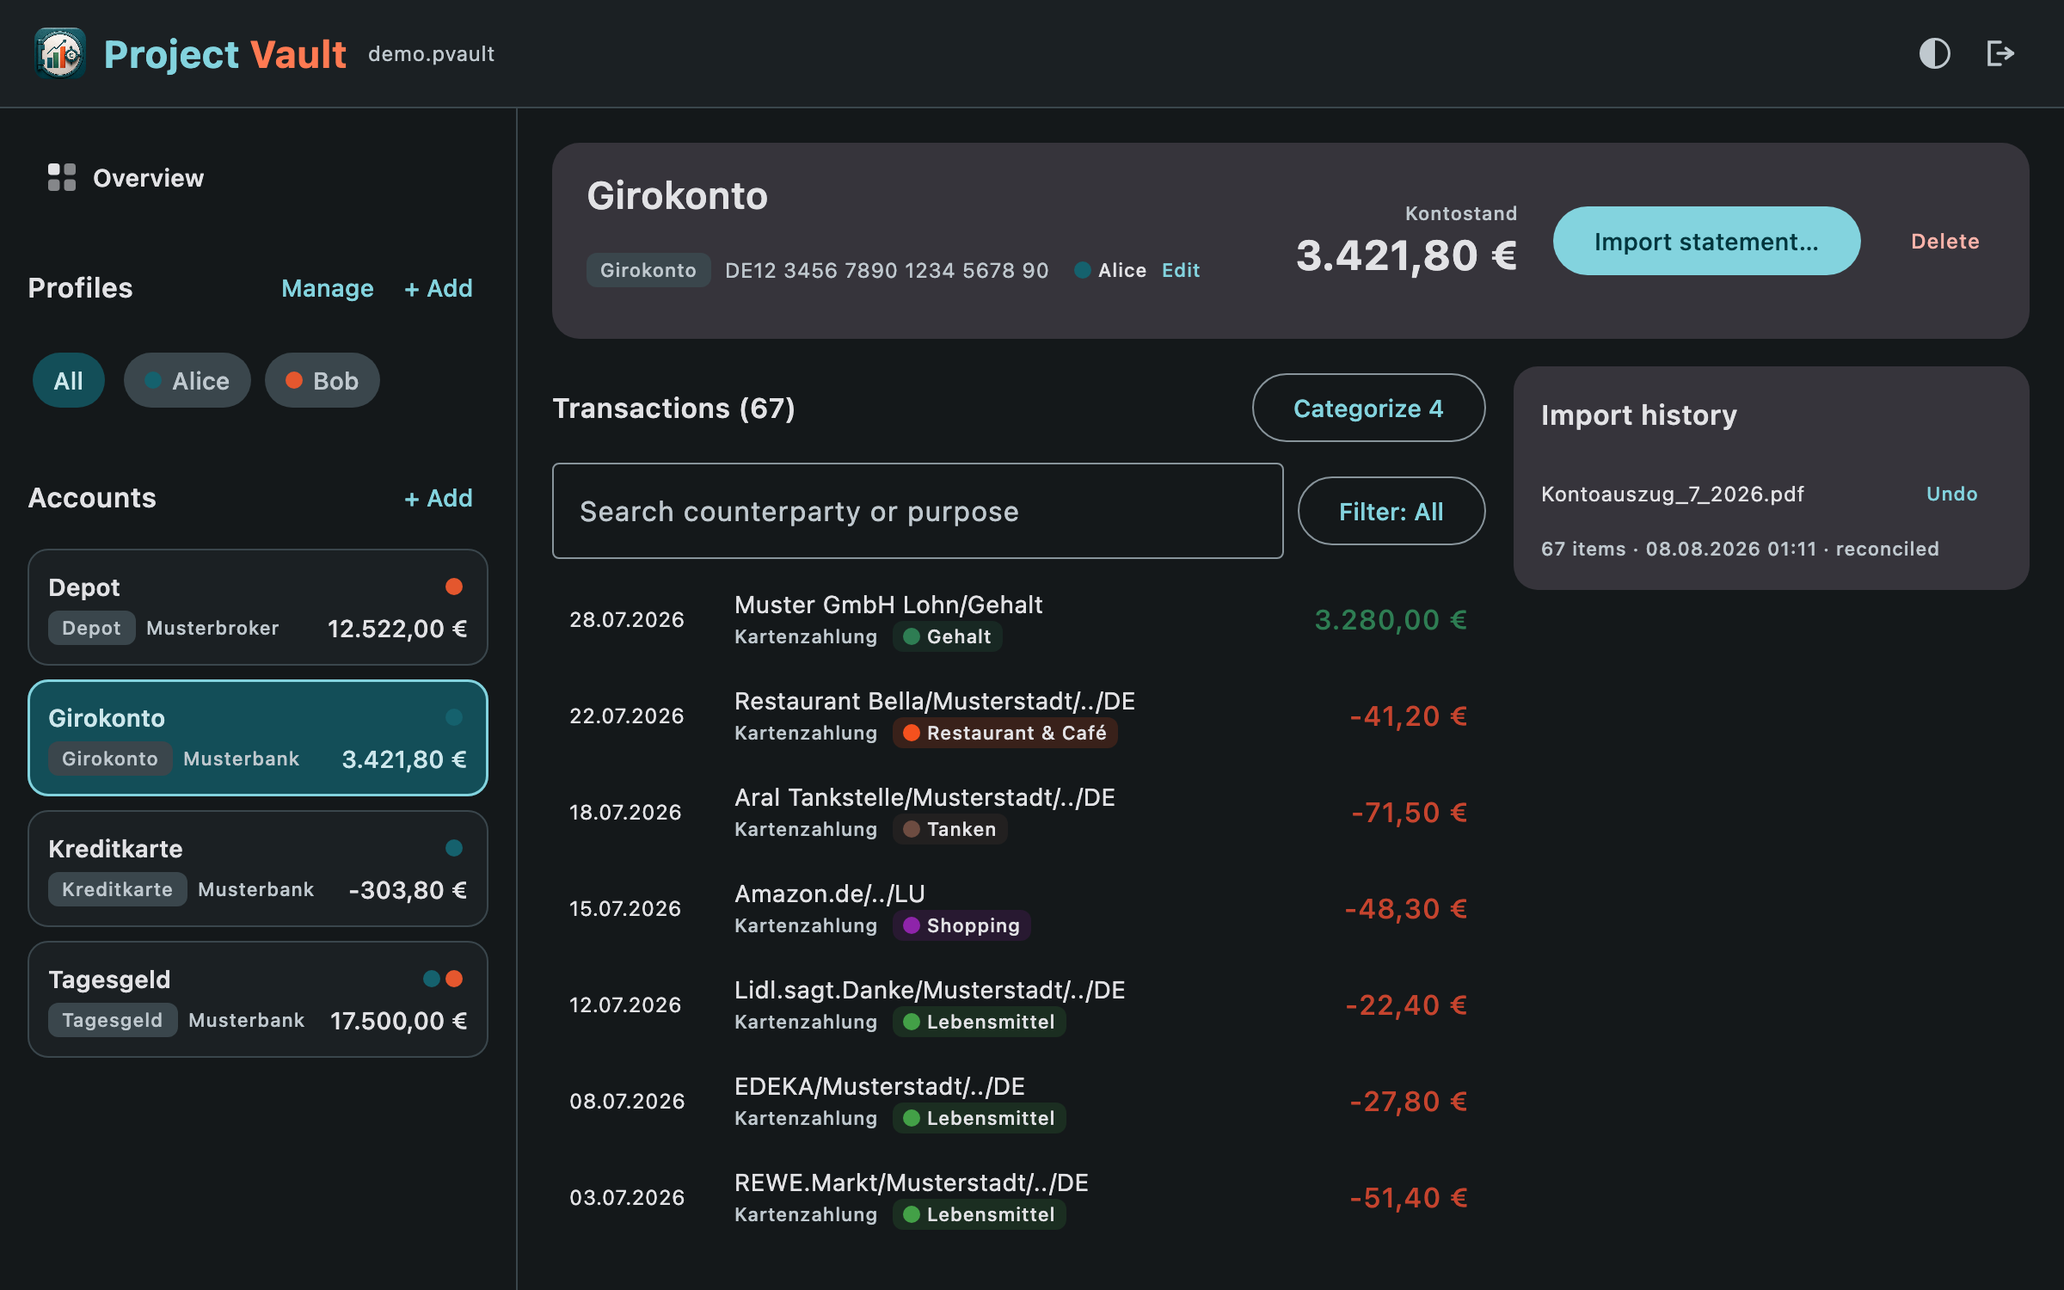
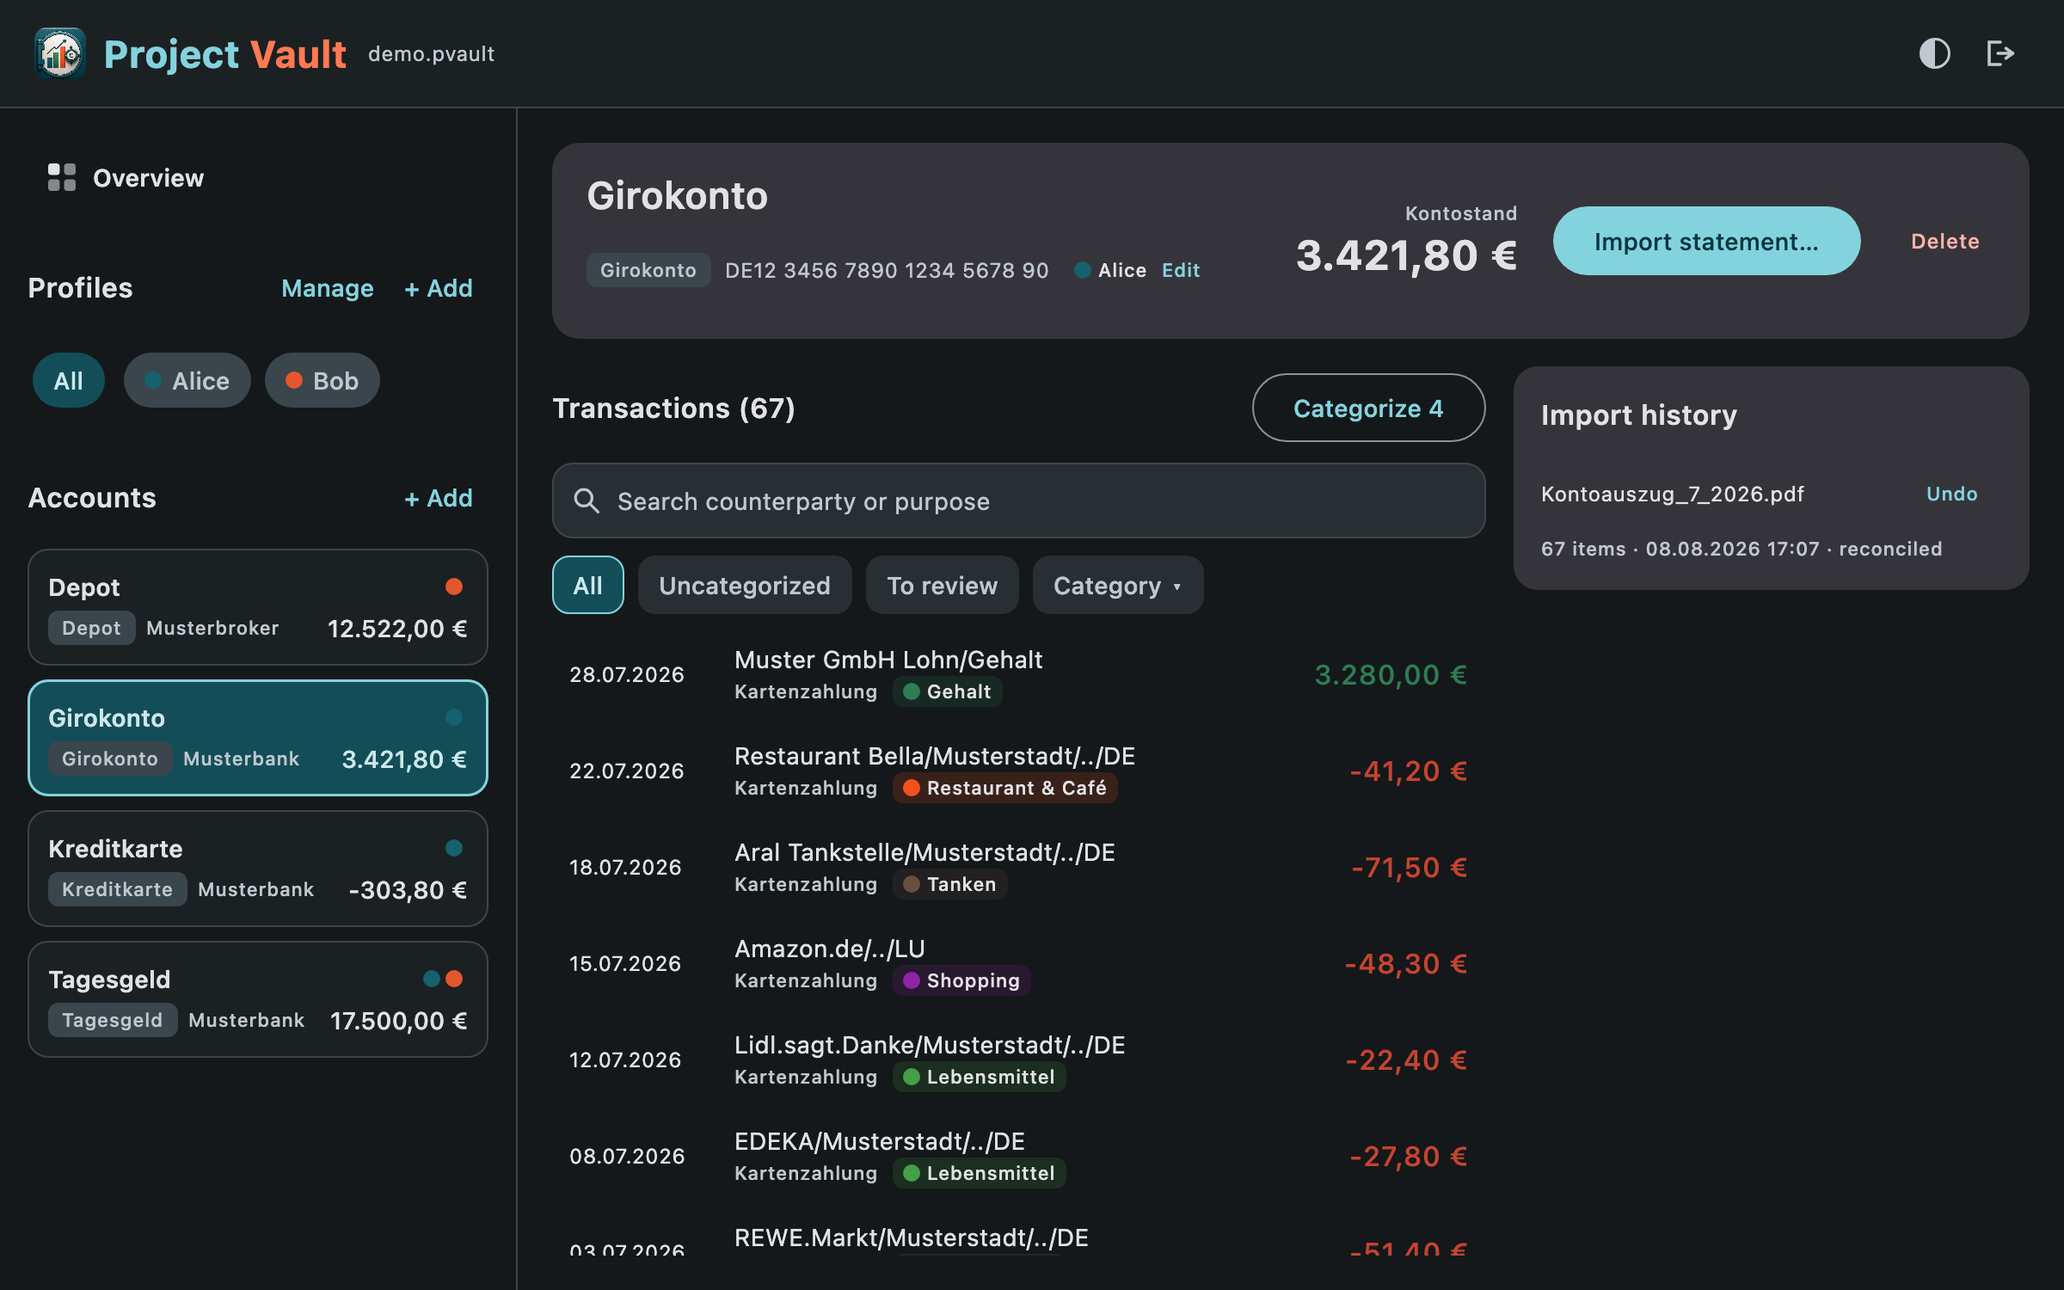
Enhance search and filters.

diff --git a/app/src/main/kotlin/org/fuchss/projectvault/app/AccountDetail.kt b/app/src/main/kotlin/org/fuchss/projectvault/app/AccountDetail.kt
@@ -1,6 +1,7 @@
 package org.fuchss.projectvault.app
 
 import androidx.compose.foundation.BorderStroke
+import androidx.compose.foundation.Canvas
 import androidx.compose.foundation.background
 import androidx.compose.foundation.clickable
 import androidx.compose.foundation.layout.Arrangement
@@ -14,18 +15,19 @@ import androidx.compose.foundation.layout.fillMaxSize
 import androidx.compose.foundation.layout.fillMaxWidth
 import androidx.compose.foundation.layout.height
 import androidx.compose.foundation.layout.padding
+import androidx.compose.foundation.layout.size
 import androidx.compose.foundation.layout.width
 import androidx.compose.foundation.lazy.LazyColumn
 import androidx.compose.foundation.lazy.items
+import androidx.compose.foundation.shape.CircleShape
 import androidx.compose.foundation.shape.RoundedCornerShape
+import androidx.compose.foundation.text.BasicTextField
 import androidx.compose.material3.Button
 import androidx.compose.material3.Card
-import androidx.compose.material3.DropdownMenu
 import androidx.compose.material3.DropdownMenuItem
 import androidx.compose.material3.HorizontalDivider
 import androidx.compose.material3.MaterialTheme
 import androidx.compose.material3.OutlinedButton
-import androidx.compose.material3.OutlinedTextField
 import androidx.compose.material3.Surface
 import androidx.compose.material3.Text
 import androidx.compose.material3.TextButton
@@ -36,7 +38,12 @@ import androidx.compose.runtime.remember
 import androidx.compose.runtime.setValue
 import androidx.compose.ui.Alignment
 import androidx.compose.ui.Modifier
+import androidx.compose.ui.draw.clip
+import androidx.compose.ui.geometry.Offset
 import androidx.compose.ui.graphics.Color
+import androidx.compose.ui.graphics.SolidColor
+import androidx.compose.ui.graphics.StrokeCap
+import androidx.compose.ui.graphics.drawscope.Stroke
 import androidx.compose.ui.text.font.FontWeight
 import androidx.compose.ui.text.style.TextOverflow
 import androidx.compose.ui.unit.dp
@@ -139,7 +146,9 @@ internal fun AccountDetail(
                         (search.isBlank() || (t.counterparty ?: "").contains(search, true) || t.purpose.contains(search, true)) &&
                             when (filter) {
                                 "ALL" -> true
-                                "NONE" -> t.categoryId == null
+                                // Uncategorized and To-review are disjoint: a txn with a pending
+                                // suggestion belongs to "To review", not "Uncategorized".
+                                "NONE" -> t.categoryId == null && t.suggestedCategoryId == null
                                 "REVIEW" -> t.categoryId == null && t.suggestedCategoryId != null
                                 else -> t.categoryId == filter
                             }
@@ -258,38 +267,117 @@ private fun TransactionFilters(
     categories: List<Category>,
     categoryById: Map<String, Category>,
 ) {
-    Row(verticalAlignment = Alignment.CenterVertically, horizontalArrangement = Arrangement.spacedBy(8.dp)) {
-        OutlinedTextField(
-            value = search,
-            onValueChange = onSearch,
-            placeholder = { Text("Search counterparty or purpose") },
-            singleLine = true,
-            modifier = Modifier.weight(1f),
-        )
-        var menu by remember { mutableStateOf(false) }
-        Box {
-            OutlinedButton(onClick = { menu = true }) { Text("Filter: ${filterLabel(filter, categoryById)}") }
-            DropdownMenu(expanded = menu, onDismissRequest = { menu = false }) {
-                DropdownMenuItem(text = { Text("All") }, onClick = { onFilter("ALL"); menu = false })
-                DropdownMenuItem(text = { Text("Uncategorized") }, onClick = { onFilter("NONE"); menu = false })
-                DropdownMenuItem(text = { Text("To review (suggested)") }, onClick = { onFilter("REVIEW"); menu = false })
-                HorizontalDivider()
-                categories.forEach { c ->
-                    DropdownMenuItem(
-                        text = { Row(verticalAlignment = Alignment.CenterVertically) { Dot(parseHexColor(c.color)); Spacer(Modifier.width(6.dp)); Text(c.name) } },
-                        onClick = { onFilter(c.id); menu = false },
-                    )
+    Column(verticalArrangement = Arrangement.spacedBy(10.dp)) {
+        SearchField(value = search, onValueChange = onSearch, modifier = Modifier.fillMaxWidth())
+        Row(horizontalArrangement = Arrangement.spacedBy(8.dp), verticalAlignment = Alignment.CenterVertically) {
+            FilterPill("All", selected = filter == "ALL") { onFilter("ALL") }
+            FilterPill("Uncategorized", selected = filter == "NONE") { onFilter("NONE") }
+            FilterPill("To review", selected = filter == "REVIEW") { onFilter("REVIEW") }
+
+            // A specific category filter lives in a dropdown chip that shows the active category.
+            val activeCategory = categoryById[filter]
+            var menu by remember { mutableStateOf(false) }
+            Box {
+                FilterPill(
+                    label = activeCategory?.name ?: "Category",
+                    selected = activeCategory != null,
+                    leadingDot = activeCategory?.let { parseHexColor(it.color) },
+                    trailingArrow = true,
+                ) { menu = true }
+                RoundedDropdownMenu(expanded = menu, onDismissRequest = { menu = false }) {
+                    categories.forEach { c ->
+                        DropdownMenuItem(
+                            text = { Row(verticalAlignment = Alignment.CenterVertically) { Dot(parseHexColor(c.color)); Spacer(Modifier.width(6.dp)); Text(c.name) } },
+                            onClick = { onFilter(c.id); menu = false },
+                        )
+                    }
                 }
             }
         }
     }
 }
 
-private fun filterLabel(filter: String, categoryById: Map<String, Category>): String = when (filter) {
-    "ALL" -> "All"
-    "NONE" -> "Uncategorized"
-    "REVIEW" -> "To review"
-    else -> categoryById[filter]?.name ?: "Category"
+/** A compact, pill-shaped search field with a drawn magnifier and an inline clear button. */
+@Composable
+private fun SearchField(value: String, onValueChange: (String) -> Unit, modifier: Modifier = Modifier) {
+    val muted = MaterialTheme.colorScheme.onSurfaceVariant
+    Surface(
+        shape = RoundedCornerShape(12.dp),
+        color = MaterialTheme.colorScheme.surfaceVariant.copy(alpha = 0.5f),
+        border = BorderStroke(1.dp, MaterialTheme.colorScheme.outlineVariant),
+        modifier = modifier,
+    ) {
+        Row(Modifier.padding(horizontal = 12.dp).height(44.dp), verticalAlignment = Alignment.CenterVertically) {
+            MagnifierIcon(muted)
+            Spacer(Modifier.width(10.dp))
+            Box(Modifier.weight(1f), contentAlignment = Alignment.CenterStart) {
+                if (value.isEmpty()) {
+                    Text("Search counterparty or purpose", style = MaterialTheme.typography.bodyMedium, color = muted)
+                }
+                BasicTextField(
+                    value = value,
+                    onValueChange = onValueChange,
+                    singleLine = true,
+                    textStyle = MaterialTheme.typography.bodyMedium.copy(color = MaterialTheme.colorScheme.onSurface),
+                    cursorBrush = SolidColor(MaterialTheme.colorScheme.primary),
+                    modifier = Modifier.fillMaxWidth(),
+                )
+            }
+            if (value.isNotEmpty()) {
+                Spacer(Modifier.width(8.dp))
+                Box(
+                    Modifier.size(22.dp).clip(CircleShape).clickable { onValueChange("") },
+                    contentAlignment = Alignment.Center,
+                ) { Text("✕", style = MaterialTheme.typography.labelMedium, color = muted) }
+            }
+        }
+    }
+}
+
+/** A magnifier glass drawn with primitives (no icon dependency). */
+@Composable
+private fun MagnifierIcon(color: Color) {
+    Canvas(Modifier.size(16.dp)) {
+        val stroke = 1.6.dp.toPx()
+        val r = size.minDimension * 0.30f
+        val c = Offset(size.width * 0.40f, size.height * 0.40f)
+        drawCircle(color = color, radius = r, center = c, style = Stroke(width = stroke))
+        drawLine(
+            color = color,
+            start = Offset(c.x + r * 0.72f, c.y + r * 0.72f),
+            end = Offset(size.width * 0.92f, size.height * 0.92f),
+            strokeWidth = stroke,
+            cap = StrokeCap.Round,
+        )
+    }
+}
+
+/** A selectable filter chip (optionally with a leading colour dot and a dropdown arrow). */
+@Composable
+private fun FilterPill(
+    label: String,
+    selected: Boolean,
+    leadingDot: Color? = null,
+    trailingArrow: Boolean = false,
+    onClick: () -> Unit,
+) {
+    val fg = if (selected) MaterialTheme.colorScheme.onPrimaryContainer else MaterialTheme.colorScheme.onSurfaceVariant
+    Surface(
+        shape = RoundedCornerShape(10.dp),
+        color = if (selected) MaterialTheme.colorScheme.primaryContainer else MaterialTheme.colorScheme.surfaceVariant.copy(alpha = 0.5f),
+        border = if (selected) BorderStroke(1.dp, MaterialTheme.colorScheme.primary) else null,
+        modifier = Modifier.clickable(onClick = onClick),
+    ) {
+        Row(
+            Modifier.padding(horizontal = 12.dp, vertical = 7.dp),
+            verticalAlignment = Alignment.CenterVertically,
+            horizontalArrangement = Arrangement.spacedBy(6.dp),
+        ) {
+            if (leadingDot != null) Dot(leadingDot)
+            Text(label, style = MaterialTheme.typography.labelLarge, color = fg)
+            if (trailingArrow) Text("▾", style = MaterialTheme.typography.labelMedium, color = fg)
+        }
+    }
 }
 
 @Composable
@@ -325,7 +413,7 @@ private fun TxnInspector(
                         Text("Uncategorized")
                     }
                 }
-                DropdownMenu(expanded = expanded, onDismissRequest = { expanded = false }) {
+                RoundedDropdownMenu(expanded = expanded, onDismissRequest = { expanded = false }) {
                     // Only offer categories whose kind fits the amount's sign (income/transfer for a
                     // credit, expense/transfer for a debit) — so a debit can't be marked as salary, etc.
                     categories.filter { categoryAllowedForAmount(txn.amountCents, it.kind) }.forEach { c ->
@@ -433,7 +521,7 @@ private fun DepotPane(account: Account, repo: VaultRepository, refreshKey: Int) 
                 OutlinedButton(onClick = { expanded = true }) {
                     Text("Snapshot: ${selectedDay?.let(::formatEpochDay) ?: "—"}")
                 }
-                DropdownMenu(expanded = expanded, onDismissRequest = { expanded = false }) {
+                RoundedDropdownMenu(expanded = expanded, onDismissRequest = { expanded = false }) {
                     dates.forEach { day ->
                         DropdownMenuItem(text = { Text(formatEpochDay(day)) }, onClick = { selectedDay = day; expanded = false })
                     }

diff --git a/app/src/main/kotlin/org/fuchss/projectvault/app/Dashboard.kt b/app/src/main/kotlin/org/fuchss/projectvault/app/Dashboard.kt
@@ -20,7 +20,6 @@ import androidx.compose.foundation.shape.RoundedCornerShape
 import androidx.compose.foundation.verticalScroll
 import androidx.compose.material3.AlertDialog
 import androidx.compose.material3.Card
-import androidx.compose.material3.DropdownMenu
 import androidx.compose.material3.DropdownMenuItem
 import androidx.compose.material3.MaterialTheme
 import androidx.compose.material3.OutlinedButton
@@ -143,7 +142,7 @@ internal fun DashboardScreen(
                 var menu by remember { mutableStateOf(false) }
                 Box {
                     OutlinedButton(onClick = { menu = true }) { Text(periodLabel) }
-                    DropdownMenu(expanded = menu, onDismissRequest = { menu = false }) {
+                    RoundedDropdownMenu(expanded = menu, onDismissRequest = { menu = false }) {
                         DropdownMenuItem(text = { Text("All time") }, onClick = { selectedMonth = null; menu = false })
                         months.forEach { m ->
                             DropdownMenuItem(text = { Text(formatYearMonth(m)) }, onClick = { selectedMonth = m; menu = false })
@@ -515,7 +514,7 @@ private fun RecurringSeriesDialog(
                 Row(horizontalArrangement = Arrangement.spacedBy(10.dp)) {
                     Box {
                         OutlinedButton(onClick = { cadenceMenu = true }) { Text(cadence.name.lowercase().replaceFirstChar { it.uppercase() }) }
-                        DropdownMenu(expanded = cadenceMenu, onDismissRequest = { cadenceMenu = false }) {
+                        RoundedDropdownMenu(expanded = cadenceMenu, onDismissRequest = { cadenceMenu = false }) {
                             Cadence.entries.forEach { c ->
                                 DropdownMenuItem(text = { Text(c.name.lowercase().replaceFirstChar { it.uppercase() }) }, onClick = { cadence = c; cadenceMenu = false })
                             }
@@ -532,7 +531,7 @@ private fun RecurringSeriesDialog(
                     OutlinedButton(onClick = { categoryMenu = true }) {
                         Text("Category: " + (allowedCats.firstOrNull { it.id == categoryId }?.name ?: "None"))
                     }
-                    DropdownMenu(expanded = categoryMenu, onDismissRequest = { categoryMenu = false }) {
+                    RoundedDropdownMenu(expanded = categoryMenu, onDismissRequest = { categoryMenu = false }) {
                         DropdownMenuItem(text = { Text("None") }, onClick = { categoryId = null; categoryMenu = false })
                         allowedCats.forEach { c ->
                             DropdownMenuItem(text = { Text(c.name) }, onClick = { categoryId = c.id; categoryMenu = false })

diff --git a/app/src/main/kotlin/org/fuchss/projectvault/app/Components.kt b/app/src/main/kotlin/org/fuchss/projectvault/app/Components.kt
@@ -4,16 +4,19 @@ import androidx.compose.foundation.Canvas
 import androidx.compose.foundation.background
 import androidx.compose.foundation.layout.Arrangement
 import androidx.compose.foundation.layout.Box
+import androidx.compose.foundation.layout.ColumnScope
 import androidx.compose.foundation.layout.PaddingValues
 import androidx.compose.foundation.layout.Row
 import androidx.compose.foundation.layout.Spacer
 import androidx.compose.foundation.layout.fillMaxSize
 import androidx.compose.foundation.layout.fillMaxWidth
+import androidx.compose.foundation.layout.heightIn
 import androidx.compose.foundation.layout.padding
 import androidx.compose.foundation.layout.size
 import androidx.compose.foundation.layout.width
 import androidx.compose.foundation.shape.CircleShape
 import androidx.compose.foundation.shape.RoundedCornerShape
+import androidx.compose.material3.DropdownMenu
 import androidx.compose.material3.MaterialTheme
 import androidx.compose.material3.Surface
 import androidx.compose.material3.Text
@@ -38,6 +41,7 @@ import androidx.compose.ui.text.TextStyle
 import androidx.compose.ui.text.buildAnnotatedString
 import androidx.compose.ui.text.font.FontWeight
 import androidx.compose.ui.text.withStyle
+import androidx.compose.ui.unit.Dp
 import androidx.compose.ui.unit.dp
 import org.fuchss.projectvault.model.AccountType
 import org.fuchss.projectvault.model.CategoryKind
@@ -238,6 +242,28 @@ internal fun Badge(text: String) {
 @Composable
 internal fun Dot(color: Color) {
     Box(Modifier.size(10.dp).clip(CircleShape).background(color))
+}
+
+/**
+ * App-wide dropdown menu: rounded to match the rest of the UI (Material's default is nearly
+ * rectangular) and height-capped so long lists (e.g. all categories) stay compact and scroll instead
+ * of running the full window height.
+ */
+@Composable
+internal fun RoundedDropdownMenu(
+    expanded: Boolean,
+    onDismissRequest: () -> Unit,
+    modifier: Modifier = Modifier,
+    maxHeight: Dp = 320.dp,
+    content: @Composable ColumnScope.() -> Unit,
+) {
+    DropdownMenu(
+        expanded = expanded,
+        onDismissRequest = onDismissRequest,
+        modifier = modifier.heightIn(max = maxHeight),
+        shape = RoundedCornerShape(12.dp),
+        content = content,
+    )
 }
 
 /** The "Project Vault" wordmark: teal "Project", orange "Vault" — theme-aware, readable light/dark. */

diff --git a/app/src/main/kotlin/org/fuchss/projectvault/app/Dialogs.kt b/app/src/main/kotlin/org/fuchss/projectvault/app/Dialogs.kt
@@ -24,7 +24,6 @@ import androidx.compose.foundation.verticalScroll
 import androidx.compose.material3.AlertDialog
 import androidx.compose.material3.Button
 import androidx.compose.material3.Checkbox
-import androidx.compose.material3.DropdownMenu
 import androidx.compose.material3.DropdownMenuItem
 import androidx.compose.material3.HorizontalDivider
 import androidx.compose.material3.MaterialTheme
@@ -215,7 +214,7 @@ internal fun AddCategoryDialog(
                 Spacer(Modifier.height(10.dp))
                 Box {
                     OutlinedButton(onClick = { kindMenu = true }, enabled = allowedKinds.size > 1) { Text("Kind: ${kind.name}") }
-                    DropdownMenu(expanded = kindMenu, onDismissRequest = { kindMenu = false }) {
+                    RoundedDropdownMenu(expanded = kindMenu, onDismissRequest = { kindMenu = false }) {
                         allowedKinds.forEach { k ->
                             DropdownMenuItem(text = { Text(k.name) }, onClick = { kind = k; kindMenu = false })
                         }
@@ -525,7 +524,7 @@ internal fun AddAccountDialog(
                 Spacer(Modifier.height(10.dp))
                 Box {
                     OutlinedButton(onClick = { typeMenu = true }) { Text("Type: ${accountTypeLabel(type)}") }
-                    DropdownMenu(expanded = typeMenu, onDismissRequest = { typeMenu = false }) {
+                    RoundedDropdownMenu(expanded = typeMenu, onDismissRequest = { typeMenu = false }) {
                         AccountType.entries.forEach { t ->
                             DropdownMenuItem(
                                 text = {
